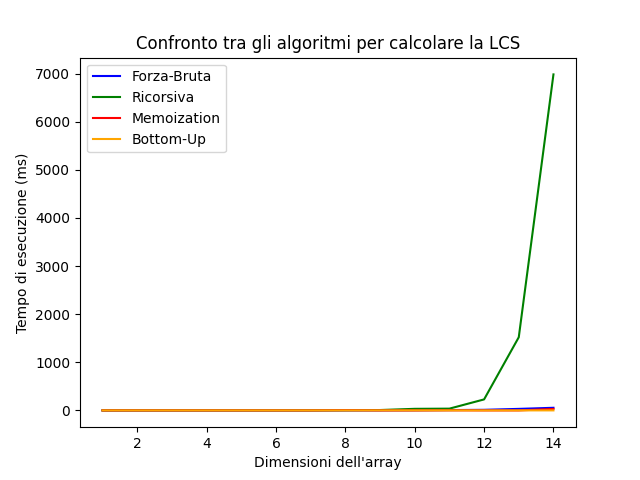
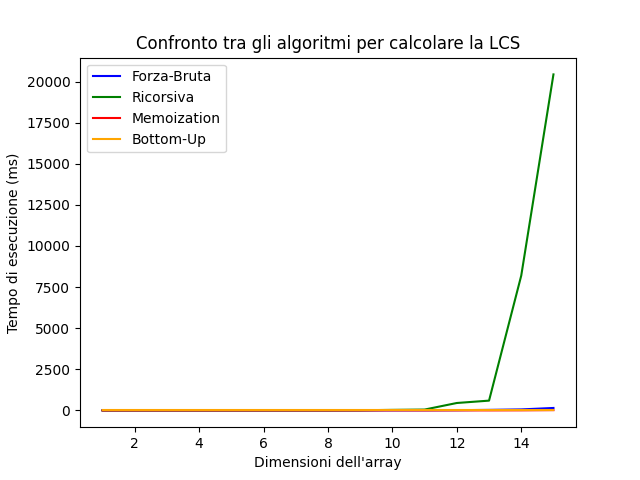
commit

diff --git a/FrancescaSani_Es1/main.py b/FrancescaSani_Es1/main.py
@@ -5,9 +5,9 @@ import matplotlib.pyplot as plt
 import string
 import numpy as np
 
-nrIterazioniTest = 30
+nrIterazioniTest = 15
 
-maxLength = 15
+maxLength = 16 # Dimensione massima delle sequenze generate
 
 # Array per salvare i tempi e le dimensioni delle sequenze generate
 BruteForce = []
